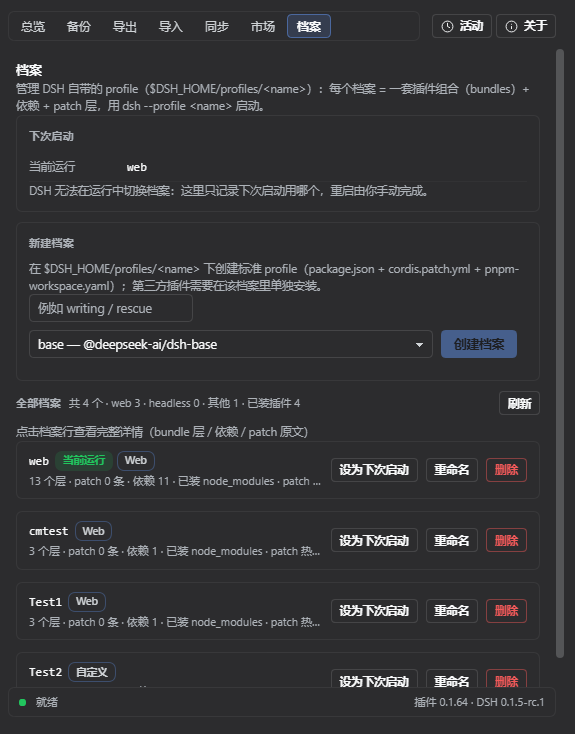
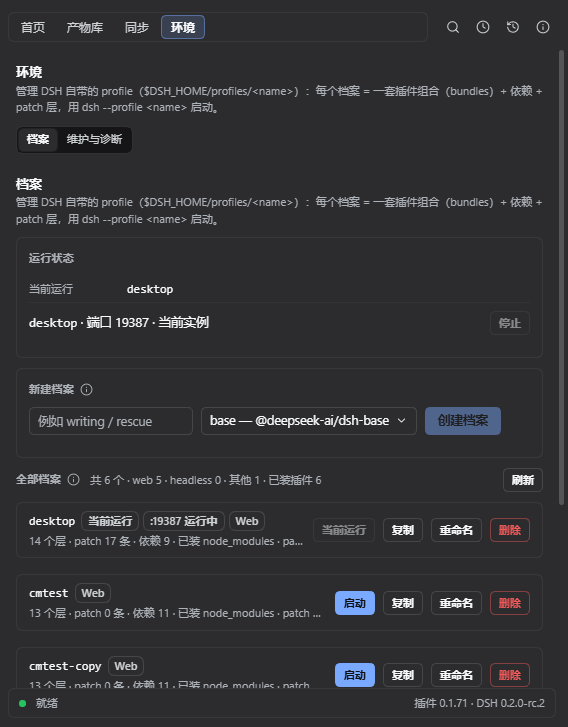
checkpoint: assets 换新截图（v3 四页 × 中英）——删旧图、重命名、同步 README 与 screenshots.json
按用户提供的新截图（原文件名 EcoPaste_*.png）完成：
- 删除 14 张 2026-09 的 v1 旧截图；其中「导出 / 导入 / 市场」三槽位本次没有新图，对应文件与 README 行一并移除（现只保留 4 个槽位 × 2 语言 = 8 张）
- 新图按内容重命名到既有槽位（保持 screenshots.json 的 URL 不变，awesome-dsh-plugin 列表不 404）：首页→screenshot-overview，产物库→screenshot-backups，同步→screenshot-sync，环境·档案→screenshot-profiles；-en 用英文界面图、-zh 用中文界面图
- README.md / README.zh-CN.md 截图区去掉「摄于旧版界面、待重拍」告示，标题改为现页面名（Home / Library / Sync / Environment · Profiles）
- screenshots.json 收敛为 4 条 -en URL；assets/README.md 的槽位表与命名规则同步（并注明槽位名沿用 v1、与现页面名的对应关系）
核对：两份 README 各引用 4 张且全部存在、screenshots.json 4 条全部有效、assets 下无 EcoPaste 残留、无 export/import/market 旧图残留。本地检查点，未推送。

diff --git a/assets/README.md b/assets/README.md
@@ -4,7 +4,7 @@
 
 ## 使用方式
 
-1. 在 DSH 中打开本插件的「备份与迁移」界面，截取关键画面（导出向导 / 导入预览 / 快照恢复 / 同步）。
+1. 在 DSH 中打开本插件的「备份与迁移」界面，截取关键画面（首页 / 产物库 / 同步 / 环境四个一级页面各一张）。
 2. 将图片放入本目录，推荐 PNG，命名与 `screenshots.json` 中一致。
 3. 提交并推送本仓库到 GitHub（图片通过 `raw.githubusercontent.com` 被引用）。
 4. 向 `awesome-dsh-plugin` 仓库发 PR 时，把仓库根目录的 `screenshots.json` 一并提交。
@@ -14,16 +14,14 @@
 
 ## 建议截图（1–8 张）
 
-| 文件名 | 内容建议 |
+| 文件名 | 内容 |
 |---|---|
-| `screenshot-overview-en.png` / `screenshot-overview-zh.png` | 总览（Overview） |
-| `screenshot-backups-en.png` / `screenshot-backups-zh.png` | 备份与快照列表 |
-| `screenshot-export-en.png` / `screenshot-export-zh.png` | 一键导出界面 |
-| `screenshot-import-en.png` / `screenshot-import-zh.png` | 导入向导第一步（选择 ZIP 文件） |
-| `screenshot-sync-en.png` / `screenshot-sync-zh.png` | 远程同步界面 |
-| `screenshot-market-en.png` / `screenshot-market-zh.png` | 配置市场界面 |
-| `screenshot-profiles-en.png` / `screenshot-profiles-zh.png` | 档案（DSH Profiles）界面 |
+| `screenshot-overview-en.png` / `screenshot-overview-zh.png` | **首页**（Home：状态条 + 立即备份 / 导出 / 导入 / 远程同步 + 最近活动） |
+| `screenshot-backups-en.png` / `screenshot-backups-zh.png` | **产物库**（Artifact library：源筛选 + 扁平列表 + 底栏「手动导出 / 从文件导入 / 逛市场 / 发布到市场」） |
+| `screenshot-sync-en.png` / `screenshot-sync-zh.png` | **同步**（Sync：Git / WebDAV / 对象存储 / Gist 四条通道卡） |
+| `screenshot-profiles-en.png` / `screenshot-profiles-zh.png` | **环境 · 档案**（Environment → Profiles：运行状态 + 全部档案） |
 
-命名规则：`screenshot-<页面>-<语言>.png`；`-en` 供仓库根 `README.md` 引用，`-zh` 供 `README.zh-CN.md` 引用，7 个页面共 14 张。改名或换图后必须同步 `screenshots.json`，并向 `awesome-dsh-plugin` 提交更新，否则列表页的图片链接会 404。
+> **文件名沿用 v1 时代的槽位名**（`overview` / `backups` / `sync` / `profiles`），与现在的页面名一一对应关系见上表 —— 这样换图不会动 `screenshots.json` 里的 URL。
+> 命名规则：`screenshot-<槽位>-<语言>.png`；`-en` 供仓库根 `README.md` 引用，`-zh` 供 `README.zh-CN.md` 引用，4 个槽位共 8 张。**改名**（而非换图）必须同步 `screenshots.json`，并向 `awesome-dsh-plugin` 提交更新，否则列表页的图片链接会 404。
 
 图片内容、张数、顺序随时可以改——换图时同步更新 `screenshots.json` 并提交新的 PR（只改自己那条）。

diff --git a/README.md b/README.md
@@ -119,23 +119,13 @@ Several DSH plugins live in this space and they solve different problems — pic
 
 ## 📸 Screenshots
 
-> ⚠ The screenshots below were taken on the **previous UI (2026-09)**, when the tabs were Overview / Backups / Export / Import / Sync / Market / Profiles. The current UI is **Home / Library / Sync / Environment** (four top-level pages) plus flow panels (see below): tabs and layout have changed, so **the screenshots are pending a re-shoot** — trust the prose and the actual UI.
-
-| Overview (now "Home") | Backups & Snapshots (now "Library") |
+| Home | Library |
 |:---:|:---:|
-| ![Overview](assets/screenshot-overview-en.png) | ![Backups and snapshots](assets/screenshot-backups-en.png) |
+| ![Home](assets/screenshot-overview-en.png) | ![Library](assets/screenshot-backups-en.png) |
 
-| Export (now the "Export" flow panel) | Import Preview (now the "Import" flow panel) |
+| Sync (four channel cards) | Environment · Profiles |
 |:---:|:---:|
-| ![One-click Export](assets/screenshot-export-en.png) | ![Import Preview](assets/screenshot-import-en.png) |
-
-| Remote Sync (now the "Sync" page) | Configuration Market (now the "Browse market" flow panel) |
-|:---:|:---:|
-| ![Remote Sync](assets/screenshot-sync-en.png) | ![Configuration Market](assets/screenshot-market-en.png) |
-
-| Profiles (now "Environment → Profiles") |
-|:---:|
-| ![Profiles](assets/screenshot-profiles-en.png) |
+| ![Sync](assets/screenshot-sync-en.png) | ![Environment · Profiles](assets/screenshot-profiles-en.png) |
 
 ---
 
